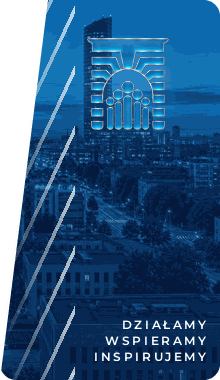
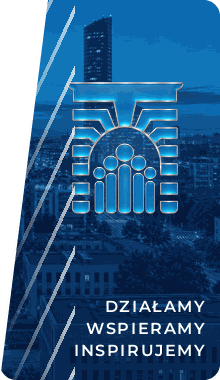
feat(stopki): masówki z Instagramem i Facebookiem, brama na środku pasa, większe hasło

Changed region(s): [[0.3, 0.0868, 0.8455, 0.5789], [0.3273, 0.7816, 0.9273, 0.9553]]

diff --git a/src/lib/signature.ts b/src/lib/signature.ts
@@ -36,8 +36,8 @@ export interface SignatureData {
  * Dwie wersje z tych samych danych:
  * - daily - codzienna, z pełną grafiką,
  * - bulk - do masówek z Huntera (bierze podpis z Gmaila): mniejsza nieruchoma
- *   grafika, mniej ikon i linków - w zimnych wysyłkach każdy obrazek i link
- *   podnosi ryzyko, że mail trafi do spamu.
+ *   grafika (lżejszy plik) i bez ikony koperty - w zimnych wysyłkach każdy
+ *   ciężki obrazek i zbędny link podnosi ryzyko, że mail trafi do spamu.
  */
 export type SignatureVariant = "daily" | "bulk";
 
@@ -110,9 +110,9 @@ interface RailIcon {
 }
 
 /**
- * Ikony pionowego paska. W wersji do masówek: strona i jeden profil
- * (najpierw LinkedIn - masówki idą do partnerów), bez koperty, bo adres
- * stoi w tekście.
+ * Ikony pionowego paska. W wersji do masówek bez koperty - adres stoi
+ * w tekście, a każdy link mniej to mniejsze ryzyko spamu. Profile zostają
+ * (decyzja z 7.11.2026: partner ma od razu trafić na nasze media).
  */
 function railIcons(d: SignatureData, variant: SignatureVariant): RailIcon[] {
   const web = d.web.trim() ? { href: "https://" + esc(bareWeb(d.web)), file: "ic_web.png", alt: "Strona Samorządu" } : null;
@@ -121,11 +121,8 @@ function railIcons(d: SignatureData, variant: SignatureVariant): RailIcon[] {
     facebook: d.facebook && { href: esc(d.facebook), file: "ic_facebook.png", alt: "Facebook" },
     linkedin: d.linkedin && { href: esc(d.linkedin), file: "ic_linkedin.png", alt: "LinkedIn" },
   };
-  if (variant === "bulk") {
-    const first = profiles.linkedin || profiles.facebook || profiles.instagram;
-    return [web, first].filter((i): i is RailIcon => Boolean(i));
-  }
-  const mail = d.email.trim() ? { href: "mailto:" + esc(d.email.trim()), file: "ic_mail.png", alt: "E-mail" } : null;
+  const mail =
+    variant === "daily" && d.email.trim() ? { href: "mailto:" + esc(d.email.trim()), file: "ic_mail.png", alt: "E-mail" } : null;
   return [web, profiles.instagram, profiles.facebook, profiles.linkedin, mail].filter((i): i is RailIcon => Boolean(i));
 }
 

diff --git a/src/lib/signature.test.ts b/src/lib/signature.test.ts
@@ -104,19 +104,18 @@ describe("buildSignature - wersja do masówek", () => {
     expect(buildSignature(pelne(), "bulk")).toContain('grafika-mala.png" width="110" height="190"');
   });
 
-  it("ma w pasku tylko stronę i LinkedIn, bez ikony poczty", () => {
+  it("ma w pasku stronę i wszystkie włączone profile, bez ikony poczty", () => {
     const html = buildSignature(pelne(), "bulk");
-    expect(html).toContain("ic_web.png");
-    expect(html).toContain("ic_linkedin.png");
-    for (const ikona of ["ic_instagram.png", "ic_facebook.png", "ic_mail.png"]) {
-      expect(html).not.toContain(ikona);
+    for (const ikona of ["ic_web.png", "ic_instagram.png", "ic_facebook.png", "ic_linkedin.png"]) {
+      expect(html).toContain(ikona);
     }
+    expect(html).not.toContain("ic_mail.png");
   });
 
-  it("bez LinkedIna bierze następny włączony profil (Facebook)", () => {
+  it("wyłączony profil znika także z masówek", () => {
     const html = buildSignature(pelne({ linkedin: undefined }), "bulk");
+    expect(html).not.toContain("ic_linkedin.png");
     expect(html).toContain("ic_facebook.png");
-    expect(html).not.toContain("ic_instagram.png");
   });
 });
 

diff --git a/scripts/build-signature-gif.py b/scripts/build-signature-gif.py
@@ -77,11 +77,12 @@ def stripes(w: int, h: int, offset: float = 0, alpha: int = 255, width_frac: flo
 
 def slogan_layer(w: int, h: int, opacity: float = 1.0) -> Image.Image:
     layer = Image.new("RGBA", (w, h), (0, 0, 0, 0))
-    k = 1.0 if w >= 400 else 0.62  # wąski pas do masówek - mniejsze hasło
+    k = 1.0 if w >= 400 else 0.84  # wąski pas do masówek - hasło trochę mniejsze, ciaśniej
     font = ImageFont.truetype(str(ROOT / "scripts" / "fonts" / "Montserrat-wght.ttf"), round(19 * k))
     font.set_variation_by_name("SemiBold")
     d = ImageDraw.Draw(layer)
-    tracking, line_h, right, bottom = 4.2 * k, round(26 * k), w - round(22 * k), h - round(24 * k)
+    tracking = 4.2 if w >= 400 else 1.6
+    line_h, right, bottom = round(26 * k), w - round(18 * k), h - round(22 * k)
     widths = [sum(font.getlength(ch) + tracking for ch in line) - tracking for line in SLOGAN]
     a = round(255 * opacity)
     for i, line in enumerate(SLOGAN):
@@ -111,11 +112,13 @@ def light_sweep(w: int, h: int, pos: float) -> Image.Image:
 def gate_layer(w: int, h: int, rise: float, glow: float) -> Image.Image:
     """Brama nad miastem; rise 0..1 - jak wysoko wyrosła, glow 0..1 - poświata."""
     gate = Image.open(SRC / "brama.png").convert("RGBA")
-    gh = round(min(h * 0.44, w * 0.42))
+    # Wąski pas: brama większa i na środku pola nad hasłem (widoczna część kadru
+    # zaczyna się za ściętym lewym brzegiem, stąd środek na ok. 57% szerokości).
+    gh = round(min(h * 0.44, w * 0.42)) if w >= 400 else round(w * 0.6)
     gate = gate.resize((round(gate.width * gh / gate.height), gh), Image.LANCZOS)
     layer = Image.new("RGBA", (w, h), (0, 0, 0, 0))
-    gx = round(w * (0.56 if w >= 400 else 0.58)) - gate.width // 2
-    gy_final = round(h * 0.1)
+    gx = round(w * (0.56 if w >= 400 else 0.57)) - gate.width // 2
+    gy_final = round(h * 0.1) if w >= 400 else round(h * 0.39) - gh // 2
     gy = round(gy_final + (1 - rise) * (h - gy_final))
     if glow > 0:
         halo = Image.new("RGBA", (w, h), (0, 0, 0, 0))
